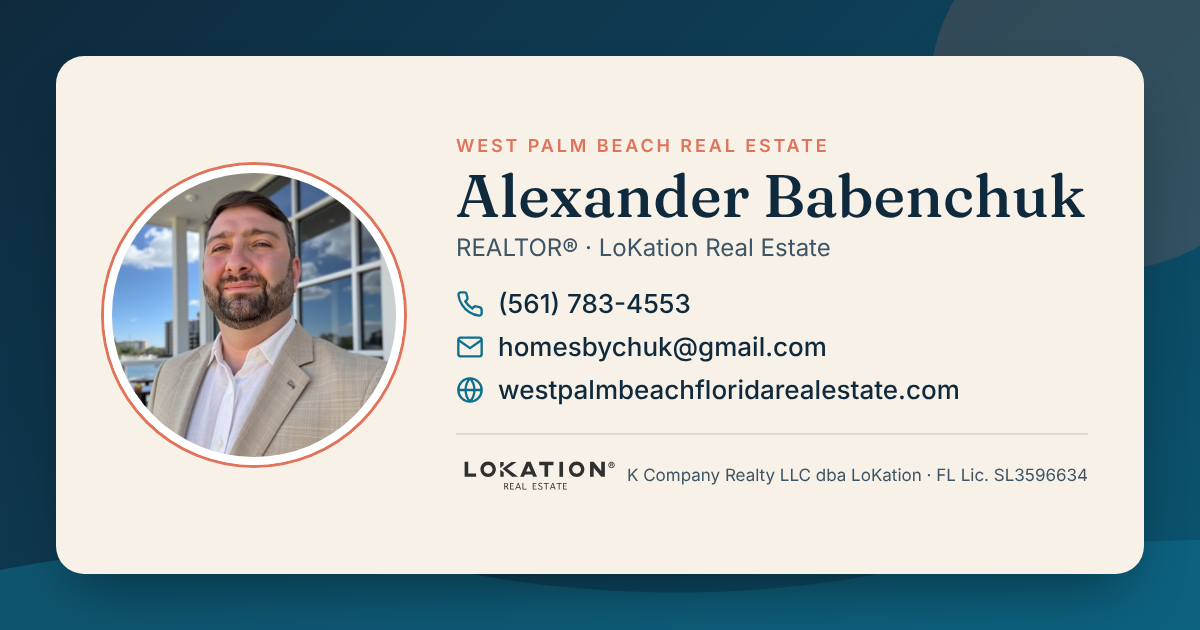
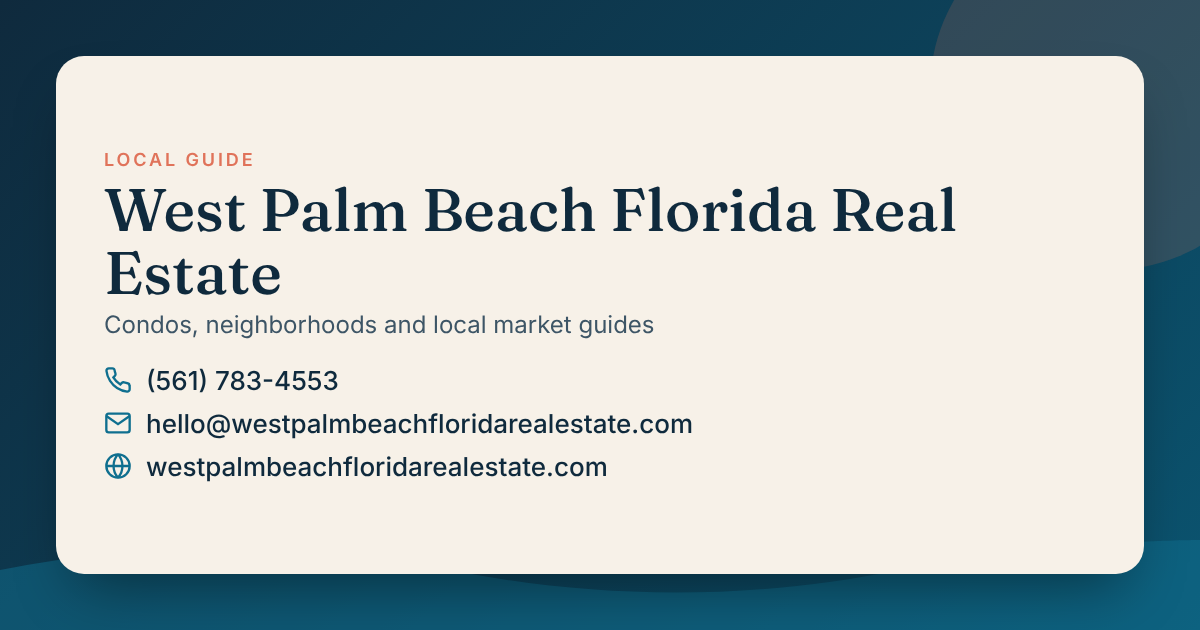
Remove agent and brokerage branding; reposition as an independent local guide
Drops the agent name, photo, license and the brokerage name and logos from the footer, about and contact pages, structured data and share card. The About page now describes the site as a sourced local guide.

Claude-Session: https://claude.ai/code/session_017faGJxV8AFtrH5APUPrbiF

diff --git a/scripts/og-card.html b/scripts/og-card.html
@@ -124,11 +124,10 @@
     </svg>
 
     <div class="card">
-      <img class="photo" src="../public/images/alex-babenchuk.jpg" alt="" />
       <div class="body">
-        <div class="eyebrow">West Palm Beach Real Estate</div>
-        <h1>Alexander Babenchuk</h1>
-        <div class="title">REALTOR® · LoKation Real Estate</div>
+        <div class="eyebrow">Local guide</div>
+        <h1>West Palm Beach Florida Real Estate</h1>
+        <div class="title">Condos, neighborhoods and local market guides</div>
         <div class="rows">
           <div class="row">
             <svg viewBox="0 0 24 24" fill="none" stroke="currentColor" stroke-width="2"><path d="M22 16.9v3a2 2 0 0 1-2.2 2 19.8 19.8 0 0 1-8.6-3.1 19.5 19.5 0 0 1-6-6A19.8 19.8 0 0 1 2.1 4.2 2 2 0 0 1 4.1 2h3a2 2 0 0 1 2 1.7c.1.9.4 1.8.7 2.7a2 2 0 0 1-.5 2.1L8 9.8a16 16 0 0 0 6 6l1.3-1.3a2 2 0 0 1 2.1-.4c.9.3 1.8.6 2.7.7a2 2 0 0 1 1.7 2z" /></svg>
@@ -136,16 +135,12 @@
           </div>
           <div class="row">
             <svg viewBox="0 0 24 24" fill="none" stroke="currentColor" stroke-width="2"><rect x="2" y="4" width="20" height="16" rx="2" /><path d="m22 6-10 7L2 6" /></svg>
-            homesbychuk@gmail.com
+            hello@westpalmbeachfloridarealestate.com
           </div>
           <div class="row">
             <svg viewBox="0 0 24 24" fill="none" stroke="currentColor" stroke-width="2"><circle cx="12" cy="12" r="10" /><path d="M2 12h20M12 2a15 15 0 0 1 0 20M12 2a15 15 0 0 0 0 20" /></svg>
             westpalmbeachfloridarealestate.com
           </div>
-        </div>
-        <div class="foot">
-          <img src="../public/images/lokation-logo.svg" alt="" />
-          <span>K Company Realty LLC dba LoKation · FL Lic. SL3596634</span>
         </div>
       </div>
     </div>

diff --git a/src/config/site.ts b/src/config/site.ts
@@ -1,27 +1,10 @@
-// Central business details. Florida advertising rules (Rule 61J2-10.025) require the
-// brokerage's licensed name on all ads; it appears in the footer of every page.
+// Central site details.
 export const site = {
   name: 'West Palm Beach Florida Real Estate',
   shortName: 'WPB Real Estate',
   url: 'https://westpalmbeachfloridarealestate.com',
   description:
     'Buy or sell a home in West Palm Beach, Florida. Local guidance on neighborhoods from El Cid to Northwood, home valuations, and property search.',
-  agent: {
-    name: 'Alexander Babenchuk',
-    email: 'homesbychuk@gmail.com',
-    title: 'REALTOR®',
-    license: 'FL License #SL3596634',
-    licenseUrl:
-      'https://www.myfloridalicense.com/portalsearches/VerifyLicensee/LicenseDetail?ID=DDFABB0C721DCA8BCD909FDE963713A5',
-    photo: '/images/alex-babenchuk.jpg',
-  },
-  brokerage: {
-    name: 'LoKation® Real Estate',
-    legalName: 'K Company Realty LLC dba LoKation',
-    logo: '/images/lokation-logo.svg',
-    logoLight: '/images/lokation-logo-light.svg',
-    address: '',
-  },
   phone: '(561) 783-4553',
   // Official business address (privacy policy, structured data); forwarded via Cloudflare Email Routing.
   email: 'hello@westpalmbeachfloridarealestate.com',

diff --git a/README.md b/README.md
@@ -13,9 +13,8 @@ npm run build    # outputs to dist/
 
 ## Before launch
 
-1. **Business details** live in `src/config/site.ts` (agent, license, brokerage). Florida requires the
-   brokerage's licensed name on all advertising; it's in the footer of every page.
-2. **About page bio & photo** — `src/pages/about.astro`; put the photo in `public/images/`.
+1. **Site details** live in `src/config/site.ts`.
+2. **About page** — `src/pages/about.astro`.
 3. **Property search** — set `idxEmbedUrl` in `src/config/site.ts` to your IDX provider's embed URL.
    Until then, `/listings` shows a "send me listings" form.
 4. **Photography** — neighborhood cards use illustrated placeholders; swap in real photos when ready.
